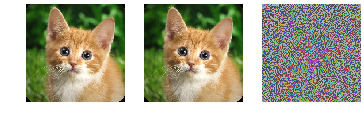
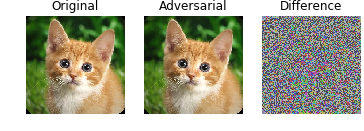
added titles to example in readme

diff --git a/README.rst b/README.rst
@@ -75,14 +75,17 @@ The result can be plotted like this:
    plt.figure()
 
    plt.subplot(1, 3, 1)
+   plt.title('Original')
    plt.imshow(image / 255)  # division by 255 to convert [0, 255] to [0, 1]
    plt.axis('off')
 
    plt.subplot(1, 3, 2)
+   plt.title('Adversarial')
    plt.imshow(adversarial[:, :, ::-1] / 255)  # ::-1 to convert BGR to RGB
    plt.axis('off')
 
    plt.subplot(1, 3, 3)
+   plt.title('Difference')
    difference = adversarial[:, :, ::-1] - image
    plt.imshow(difference / abs(difference).max() * 0.2 + 0.5)
    plt.axis('off')
